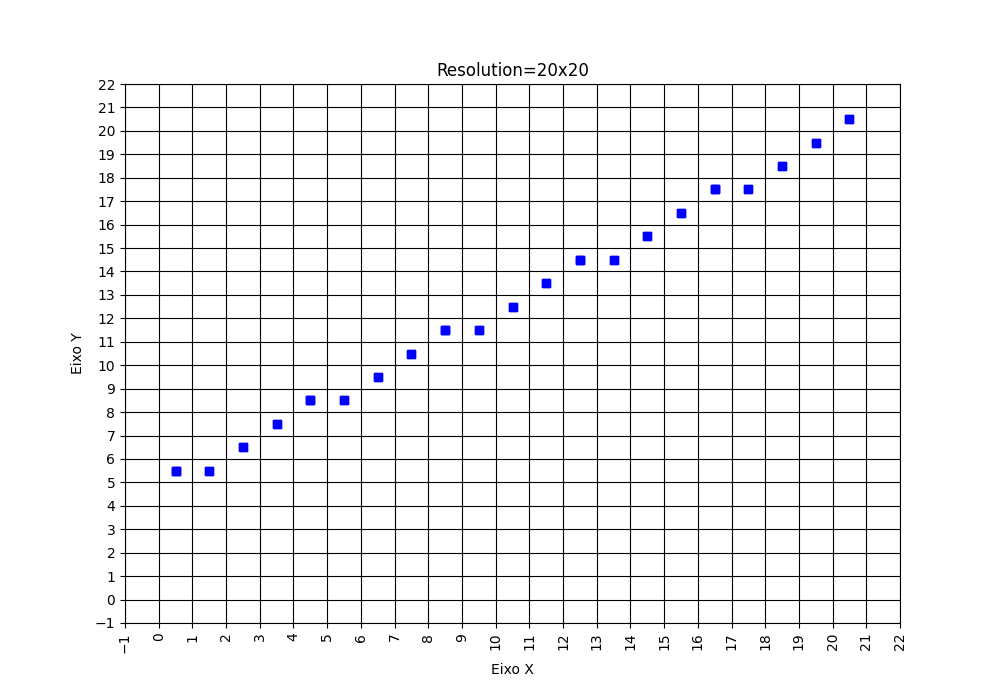
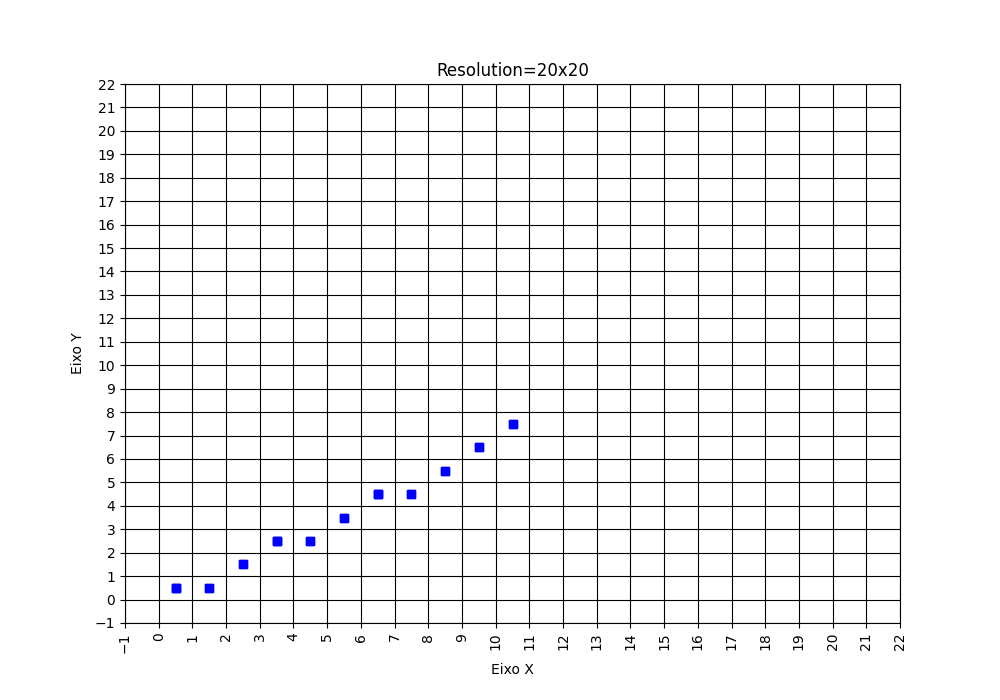
Correcao de Codigo e Aceitacao Decimal REGEX

diff --git a/src/view/screens/RasterizationPolygons.qml b/src/view/screens/RasterizationPolygons.qml
@@ -71,7 +71,7 @@ Item {
                         horizontalAlignment: TextInput.AlignHCenter 
                         placeholderText: "0-99"
                         validator: RegExpValidator{
-                            regExp: /^[0-9]{0,2}$/
+                            regExp: /^\d{0,2}(\.\d{1,5})?$/
                         }
                     }
                 }
@@ -93,7 +93,7 @@ Item {
                         horizontalAlignment: TextInput.AlignHCenter 
                         placeholderText: "0-99"
                         validator: RegExpValidator{
-                            regExp: /^[0-9]{0,2}$/
+                            regExp: /^\d{0,2}(\.\d{1,5})?$/
                         }
                     }
                 }
@@ -124,7 +124,7 @@ Item {
                         horizontalAlignment: TextInput.AlignHCenter 
                         placeholderText: "0-99"
                         validator: RegExpValidator{
-                            regExp: /^[0-9]{0,2}$/
+                            regExp: /^\d{0,2}(\.\d{1,5})?$/
                         }
                     }
                 }
@@ -146,7 +146,7 @@ Item {
                         horizontalAlignment: TextInput.AlignHCenter 
                         placeholderText: "0-99"
                         validator: RegExpValidator{
-                            regExp: /^[0-9]{0,2}$/
+                            regExp: /^\d{0,2}(\.\d{1,5})?$/
                         }
                     }
                 }
@@ -177,7 +177,7 @@ Item {
                         horizontalAlignment: TextInput.AlignHCenter 
                         placeholderText: "0-99"
                         validator: RegExpValidator{
-                            regExp: /^[0-9]{0,2}$/
+                            regExp: /^\d{0,2}(\.\d{1,5})?$/
                         }
                     }
                 }
@@ -199,7 +199,7 @@ Item {
                         horizontalAlignment: TextInput.AlignHCenter 
                         placeholderText: "0-99"
                         validator: RegExpValidator{
-                            regExp: /^[0-9]{0,2}$/
+                            regExp: /^\d{0,2}(\.\d{1,5})?$/
                         }
                     }
                 }
@@ -231,7 +231,7 @@ Item {
                         horizontalAlignment: TextInput.AlignHCenter 
                         placeholderText: "0-99"
                         validator: RegExpValidator{
-                            regExp: /^[0-9]{0,2}$/
+                            regExp: /^\d{0,2}(\.\d{1,5})?$/
                         }
                     }
                 }
@@ -253,7 +253,7 @@ Item {
                         horizontalAlignment: TextInput.AlignHCenter 
                         placeholderText: "0-99"
                         validator: RegExpValidator{
-                            regExp: /^[0-9]{0,2}$/
+                            regExp: /^\d{0,2}(\.\d{1,5})?$/
                         }
                     }
                 }
@@ -285,7 +285,7 @@ Item {
                         horizontalAlignment: TextInput.AlignHCenter 
                         placeholderText: "0-99"
                         validator: RegExpValidator{
-                            regExp: /^[0-9]{0,2}$/
+                            regExp: /^\d{0,2}(\.\d{1,5})?$/
                         }
                     }
                 }
@@ -307,7 +307,7 @@ Item {
                         horizontalAlignment: TextInput.AlignHCenter 
                         placeholderText: "0-99"
                         validator: RegExpValidator{
-                            regExp: /^[0-9]{0,2}$/
+                            regExp: /^\d{0,2}(\.\d{1,5})?$/
                         }
                     }
                 }
@@ -339,7 +339,7 @@ Item {
                         horizontalAlignment: TextInput.AlignHCenter 
                         placeholderText: "0-99"
                         validator: RegExpValidator{
-                            regExp: /^[0-9]{0,2}$/
+                            regExp: /^\d{0,2}(\.\d{1,5})?$/
                         }
                     }
                 }
@@ -361,7 +361,7 @@ Item {
                         horizontalAlignment: TextInput.AlignHCenter 
                         placeholderText: "0-99"
                         validator: RegExpValidator{
-                            regExp: /^[0-9]{0,2}$/
+                            regExp: /^\d{0,2}(\.\d{1,5})?$/
                         }
                     }
                 }

diff --git a/src/view/screens/RasterizationLines.qml b/src/view/screens/RasterizationLines.qml
@@ -33,7 +33,7 @@ Item {
                         horizontalAlignment: TextInput.AlignHCenter 
                         placeholderText: "0-99"
                         validator: RegExpValidator{
-                            regExp: /^[0-9]{0,2}$/
+                            regExp: /^\d{0,2}(\.\d{1,5})?$/
                         }
                     }
                 }
@@ -54,7 +54,7 @@ Item {
                         horizontalAlignment: TextInput.AlignHCenter 
                         placeholderText: "0-99"
                         validator: RegExpValidator{
-                            regExp: /^[0-9]{0,2}$/
+                            regExp: /^\d{0,2}(\.\d{1,5})?$/
                         }
                     }
                 }
@@ -84,7 +84,7 @@ Item {
                         horizontalAlignment: TextInput.AlignHCenter 
                         placeholderText: "0-99"
                         validator: RegExpValidator{
-                            regExp: /^[0-9]{0,2}$/
+                            regExp: /^\d{0,2}(\.\d{1,5})?$/
                         }
                         
                     }
@@ -106,7 +106,7 @@ Item {
                         horizontalAlignment: TextInput.AlignHCenter 
                         placeholderText: "0-99"
                         validator: RegExpValidator{
-                            regExp: /^[0-9]{0,2}$/
+                            regExp: /^\d{0,2}(\.\d{1,5})?$/
                         }
                     }
                 }

diff --git a/src/utils/rasterizacao.py b/src/utils/rasterizacao.py
@@ -124,11 +124,15 @@ class Rasterizacao(QObject):
 						while(X < X2):
 							X = X+1
 							Y=M*X + B
+							if (X > X2):
+								continue
 							self.createPointsFragments(X,Y)
 					else:
 						while(X > X2):
 							X=X-1
 							Y=M*X + B
+							if (X < 0 or Y < 0):
+								continue
 							self.createPointsFragments(X,Y)
 				else:
 					if (Y < Y2):
@@ -138,6 +142,8 @@ class Rasterizacao(QObject):
 								X = X2
 							else:
 								X=(Y-B)/M
+							if (Y > Y2):
+								continue
 							self.createPointsFragments(X,Y)
 					else:
 						while(Y > Y2):
@@ -146,6 +152,8 @@ class Rasterizacao(QObject):
 								X = X2
 							else:
 								X=(Y-B)/M
+							if (X < 0 or Y < 0):
+								continue
 							self.createPointsFragments(X,Y)
 				
 				# PLOT POINTS
@@ -157,10 +165,10 @@ class Rasterizacao(QObject):
 	@pyqtSlot(QVariant, QVariant, QVariant, QVariant)
 	def treatLineCoordinates(self, x1, y1, x2, y2):
 		# THIS FUNCTION TREATS GIVEN DATA TO PLOT A LINE
-		x1 = int(x1) 
-		y1 = int(y1)
-		x2 = int(x2)
-		y2 = int(y2)
+		x1 = float(x1) 
+		y1 = float(y1)
+		x2 = float(x2)
+		y2 = float(y2)
 
 		pointsArray = [
 			[x1, y1],
@@ -174,12 +182,12 @@ class Rasterizacao(QObject):
 	def treatPolygonsCoordinates(self, polygonType, x1, y1, x2, y2, x3, y3, x4 = None, y4 = None, x5 = None, y5 = None, x6 = None, y6 = None):
 		# THIS FUNCTION TREATS GIVEN DATA TO PLOT THE RIGHT POLYGON
 		polygonType = int(polygonType)
-		x1 = int(x1) 
-		y1 = int(y1)
-		x2 = int(x2)
-		y2 = int(y2)
-		x3 = int(x3)
-		y3 = int(y3)
+		x1 = float(x1) 
+		y1 = float(y1)
+		x2 = float(x2)
+		y2 = float(y2)
+		x3 = float(x3)
+		y3 = float(y3)
 		if (polygonType == 0 ): # TRIANGLE
 			pointsArray = [
 				[x1, y1],
@@ -187,8 +195,8 @@ class Rasterizacao(QObject):
 				[x3, y3]
 			]
 		elif (polygonType == 1): # SQUARE
-			x4 = int(x4)
-			y4 = int(y4)
+			x4 = float(x4)
+			y4 = float(y4)
 			pointsArray = [
 				[x1, y1],
 				[x2, y2],
@@ -196,12 +204,12 @@ class Rasterizacao(QObject):
 				[x4, y4],
 			]
 		elif (polygonType == 2): # HEXAGON
-			x4 = int(x4)
-			y4 = int(y4)
-			x5 = int(x5)
-			y5 = int(y5)
-			x6 = int(x6)
-			y6 = int(y6)
+			x4 = float(x4)
+			y4 = float(y4)
+			x5 = float(x5)
+			y5 = float(y5)
+			x6 = float(x6)
+			y6 = float(y6)
 			pointsArray = [
 				[x1, y1],
 				[x2, y2],
